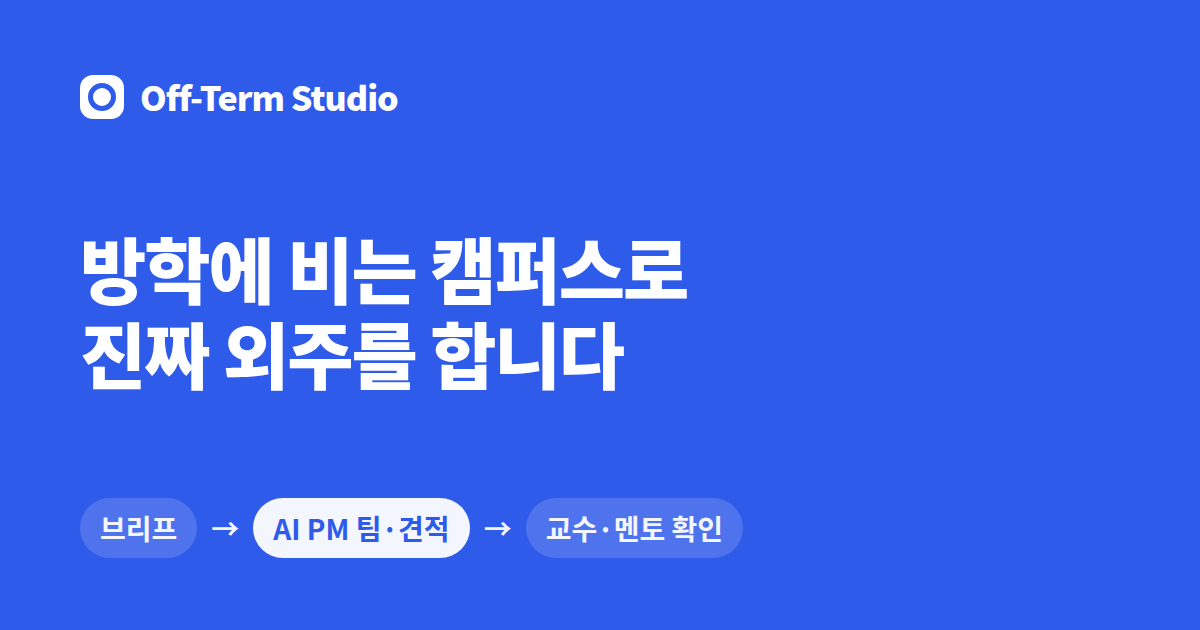
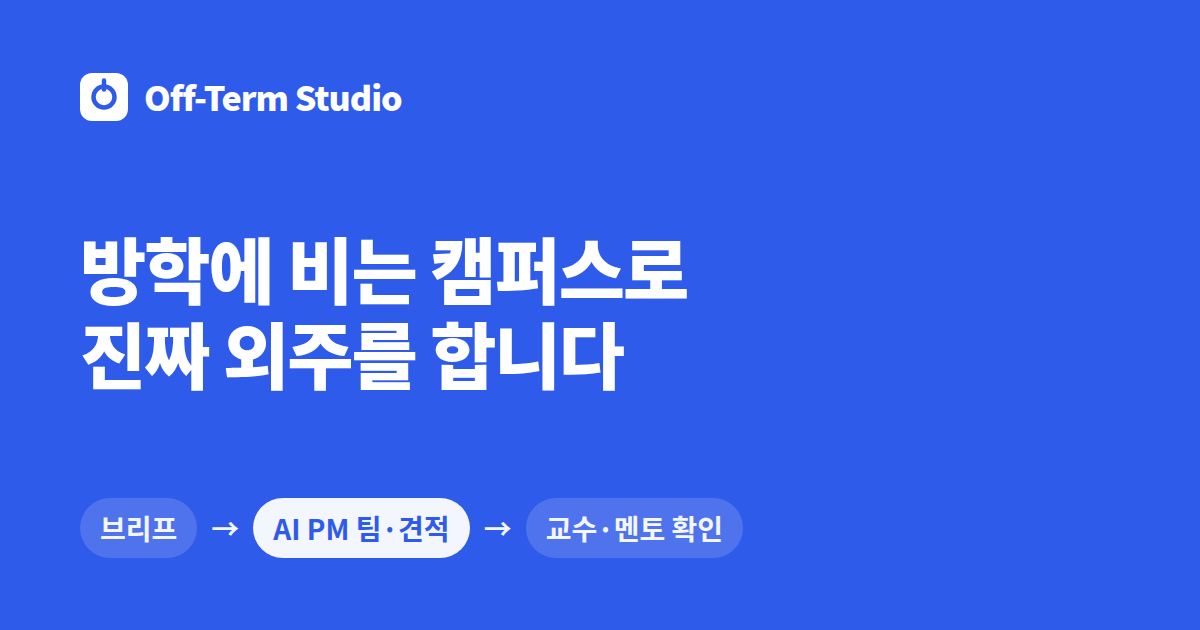
Add files via upload

Changed region(s): [[0.0617, 0.1206, 0.3392, 0.2111]]

diff --git a/src/styles.css b/src/styles.css
@@ -55,8 +55,7 @@ h1, h2 { text-wrap: balance; letter-spacing: -0.025em; }
 .header { position: sticky; top: 0; z-index: 30; background: color-mix(in srgb, var(--bg) 85%, transparent); backdrop-filter: blur(12px); border-bottom: 1px solid var(--line); padding-top: env(safe-area-inset-top, 0px); }
 .header .container { display: flex; align-items: center; gap: 16px; height: 60px; }
 .logo { display: flex; align-items: center; gap: 8px; font-weight: 800; font-size: 17px; letter-spacing: -0.03em; margin-right: auto; }
-.logo i { width: 22px; height: 22px; border-radius: 7px; background: var(--accent); display: grid; place-items: center; }
-.logo i::after { content: ""; width: 9px; height: 9px; border: 2.5px solid #fff; border-radius: 50%; }
+.logo svg { flex: none; display: block; }
 .nav { display: flex; gap: 2px; }
 .nav a { padding: 8px 12px; border-radius: 10px; color: var(--ink-2); font-weight: 600; font-size: 14px; white-space: nowrap; }
 .nav a:hover { color: var(--ink); background: var(--surface-2); }

diff --git a/src/components/ui.jsx b/src/components/ui.jsx
@@ -37,7 +37,14 @@ export function Header() {
   return (
     <header className="header">
       <div className="container">
-        <Link to="/" className="logo"><i />Off-Term Studio</Link>
+        <Link to="/" className="logo" aria-label="Off-Term Studio 홈">
+          <svg viewBox="0 0 32 32" width="24" height="24" aria-hidden="true">
+            <rect width="32" height="32" rx="8" fill="#2f5bea" />
+            <path d="M9 16a7 7 0 1 0 14 0a7 7 0 1 0-14 0" fill="none" stroke="#fff" strokeWidth="3" />
+            <path d="M16 5v6" stroke="#fff" strokeWidth="3" strokeLinecap="round" />
+          </svg>
+          Off-Term Studio
+        </Link>
         {links.length > 0 && (
           <nav className="nav">
             {links.map(([to, label, end]) => (

diff --git a/src/pages/Landing.jsx b/src/pages/Landing.jsx
@@ -13,7 +13,7 @@ export default function Landing() {
     <main className="container">
       <section className="hero">
         <span className="eyebrow">상명대 서울캠퍼스 · 방학 인하우스 프로덕션</span>
-        <h1>방학에 비는 캠퍼스로<br />진짜 외주를 합니다</h1>
+        <h1>방학에 비는 캠퍼스로<br />외주를 합니다</h1>
         <p>어떤 분이신가요?</p>
       </section>
 

diff --git a/DEPLOY.md b/DEPLOY.md
@@ -1,5 +1,15 @@
 # 사이트 업데이트 튜토리얼
 
+## 로고 수정 업데이트
+
+바뀐 파일: `src/components/ui.jsx`, `src/styles.css`, `static/og.png`
+
+1. zip을 풀고 폴더 안 항목 전부를 GitHub **Add file → Upload files**에 끌어다 놓기 (같은 파일은 덮어써짐)
+2. **Commit changes** 한 번 → 자동 배포
+3. 사이트에서 ⌘⇧R → 왼쪽 위 로고가 탭 아이콘과 같은 파란 전원 버튼인지 확인
+
+---
+
 ## 최종본 업데이트 (v2 → 최종)
 
 v2를 이미 배포했다면 빌드 설정은 그대로 두면 됩니다.
